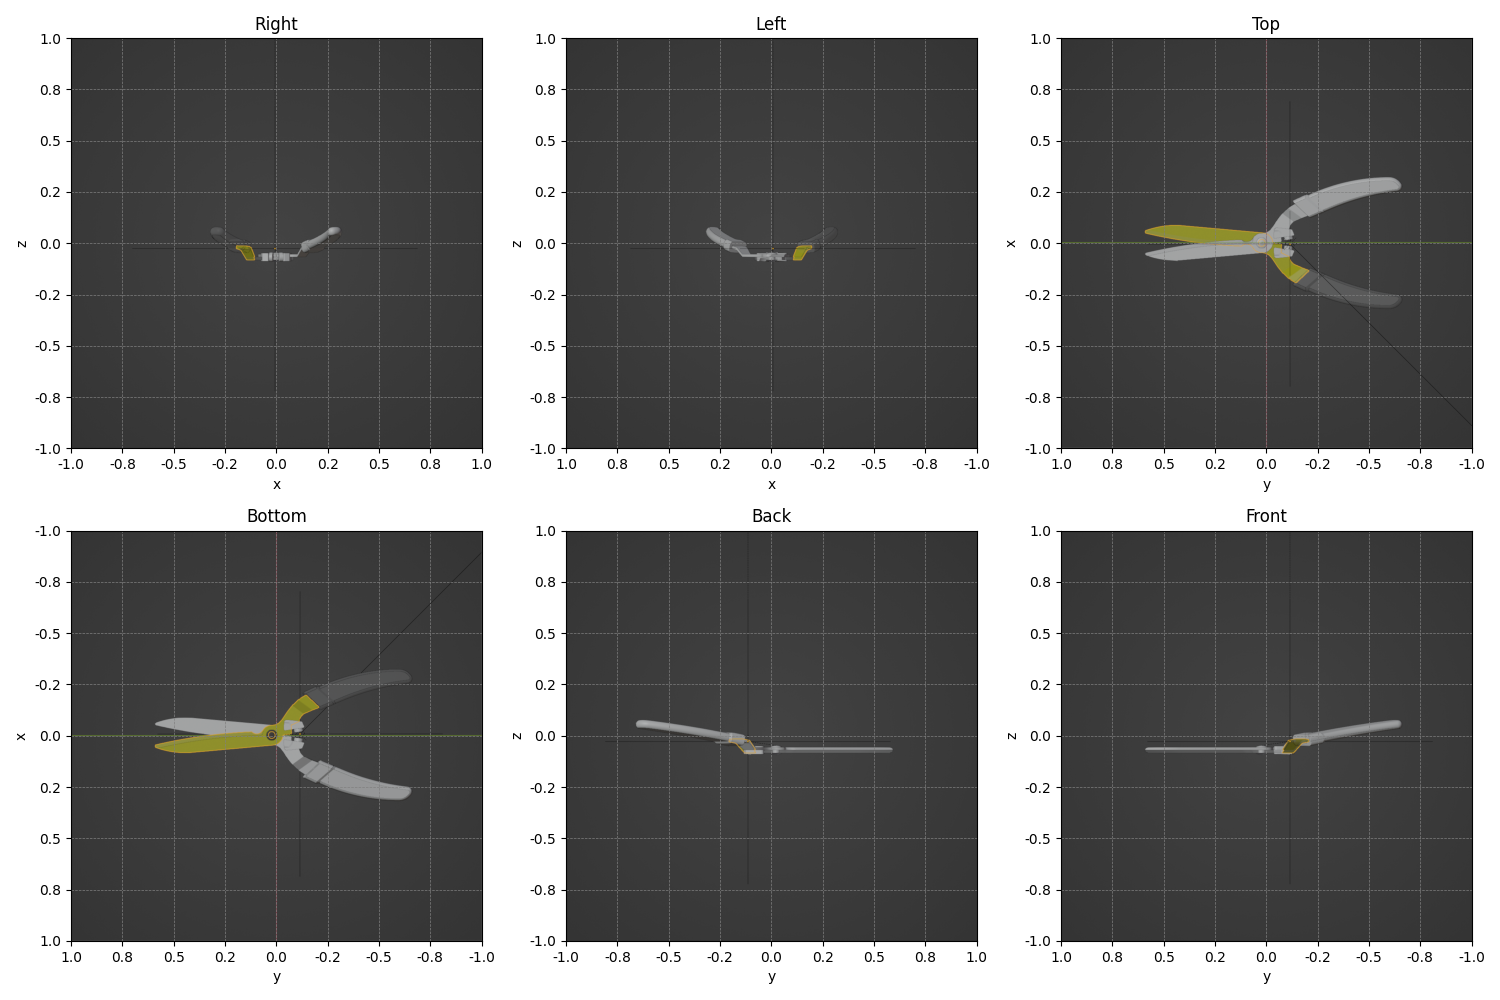
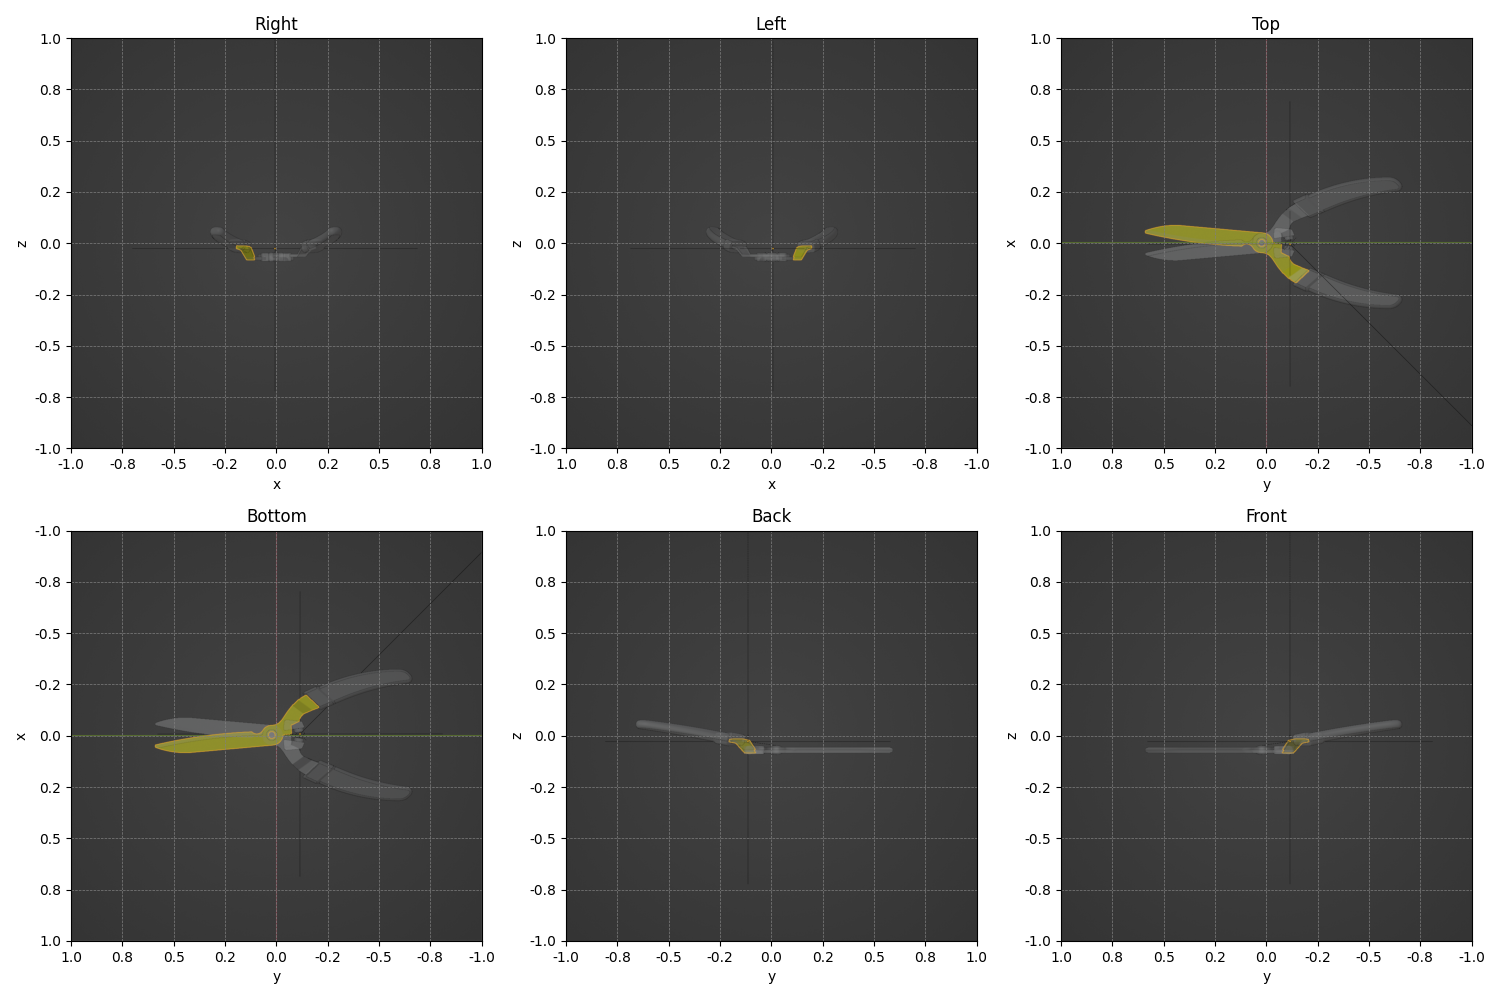
fixed transparency not correctly set issue

diff --git a/source/part_photographer.py b/source/part_photographer.py
@@ -61,16 +61,18 @@ def assign_material(obj, name):
     # Assign it to object
     if obj.data.materials:
         # assign to 1st material slot
+        temp_mat = obj.data.materials[0]
         obj.data.materials[0] = mat
+        obj.data.materials.append(temp_mat)
+
     else:
         # no slots
         obj.data.materials.append(mat)
 
     obj.active_material.diffuse_color = HEIGHLIGHT_COLOR
 
-def remove_material(name):
-    m = bpy.data.materials[name]
-    bpy.data.materials.remove(m)
+def remove_material(obj, name):
+    obj.data.materials.pop(index = 0)
 
 def fit_viewport_on_selection_with_current_view_angle():
     #center the viewport on the mesh
@@ -109,7 +111,7 @@ def save_all_angles_of_selected_obj(override, obj, object_name):
         render_path = f'{OBJECT_ID}/parts_photograph/{object_name}/{VIEWS_INFO[count]}.png'
         output_path = os.path.join(rootDir, render_path)
         bpy.data.images['Render Result'].save_render(output_path)
-        remove_material(material_name)
+        remove_material(obj, material_name)
 
 def get_bound_box(object_list):
     # Initialize lists to hold all corners
@@ -199,15 +201,17 @@ for area in bpy.context.screen.areas:
         space_data.shading.type = 'SOLID'
         break  # Stop after finding the first 3D View area
 
-set_all_transparent()
+
 objects = bpy.context.selected_objects
 count = 0
 for obj in bpy.context.scene.objects:
     if obj.type == 'MESH':
         # override = get_3d_view_context()
         # bpy.ops.view3d.view_selected(override)
+        set_all_transparent()
         save_all_angles_of_selected_obj(override, obj, object_name=obj.name)
         count += 1
+        print(f"done processing: {obj.name}")
         # if(count > 1):
         #     break
 

diff --git a/discussion/Feb262024.md b/discussion/Feb262024.md
@@ -1,0 +1,6 @@
+GPT-4V assess bounding box:
+
+- Given the image below to GPT-4v, it is very bad at assess
+
+![Generated view of parts given model](../doc/blade.png)
+
